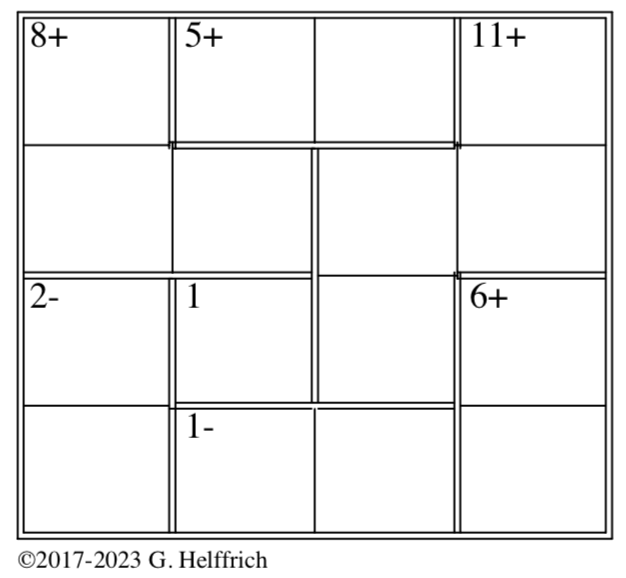
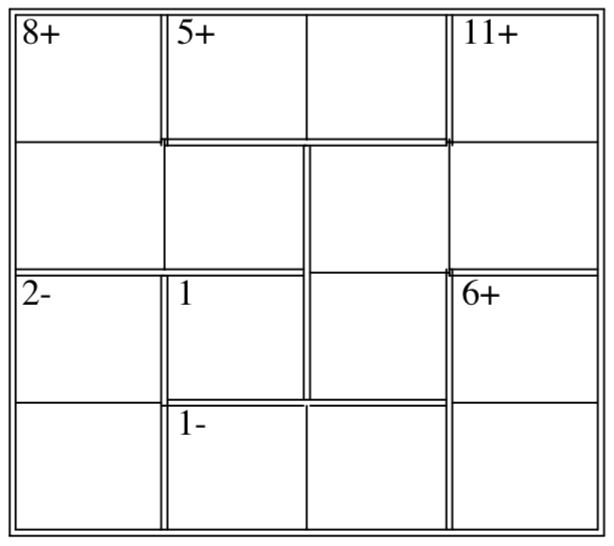
Improve README.md and image of sample grid

Changed region(s): [[0.0, 0.0, 0.9902, 0.9963]]

diff --git a/README.md b/README.md
@@ -2,11 +2,10 @@ KENKEN
 ======
 
 This repository contains a few simple tools for those who like to solve Kenken
-puzzles.  A puzzle is represented by a graphical representation as a character
-tableau.  You can make an .eps file of the puzzle grid and print it for manual
-solving.  You can also use the brute-force recursive back-tracking solver to
-find the solution to the puzzle if you're stuck.  (This solution method is
-*not* how a human solves the puzzle.)
+puzzles (or grids).  A puzzle is represented graphically as a character tableau.
+You can make an .eps file of the puzzle grid and print it for manual solving.
+From the same representation, you can also use the brute-force recursive
+back-tracking solver to find the solution to the puzzle if you're stuck.
 
 PUZZLE REPRESENTATION
 =====================
@@ -76,7 +75,9 @@ P 7+
 PRINTING GRIDS
 ==============
 
-Use the `kenken.sh` shell script to translate the grid into a `groff` table.
+Use the `kenken.sh` shell script to translate the grid into a
+[`groff`](https://www.gnu.org/software/groff/) table.  (`groff` is pre-installed
+on pretty much any modern Unix system.)
 If you install `kenken.sh` in your search path, say /usr/local/bin, by
 ```
 
@@ -97,9 +98,10 @@ SOLVING GRIDS
 
 The file `kenken-solver.R` is simple puzzle solver written in
 [`R`](https://cran.r-project.org).  It uses a brute-force backtracking algorithm
-to recursively solve a puzzle, not at all the way a human solves Kenken puzzles.
+to recursively solve a puzzle, *not at all* the way a human solves one.
 
-First start `R` and load the solver code.  Then you can solve any puzzle (or
+To use it, first start `R` and load the solver code.  Then you can solve any
+puzzle (or
 puzzles) by using the function `ksolve` read a file and solve a puzzle in it.
 By default, it will solve the first puzzle it finds in the file.  If the file
 contains more than one puzzle, provide the puzzle number (starting from 1).
@@ -109,13 +111,13 @@ solved with ~1000).  There are 144 unique 4x4 grids and about 25 million unique
 6x6 grids, so even though this is a brute-force solution method, by avoiding
 futile trial solutions the size of the search space is considerably reduced.
 ```
-    R                           # invoke R, command line input
-    source('kenken-solver.R')   # load solver code
-    ksolve('todays-grid')       # solve the puzzle grid in "todays-grid"
+    #R                            # invoke R, command line input
+    > source('kenken-solver.R')   # load solver code
+    > ksolve('todays-grid')       # solve the puzzle grid in "todays-grid"
 
-    ksolve('todays-grid',5)     # solve the 5th puzzle in the file
+    > ksolve('todays-grid',5)     # solve the 5th puzzle in the file
 
-    q()                         # this is how you quit R
+    > q()                         # this is how you quit R
 ```
 
 If you are curious about the solution method, you can invoke a trace option to
